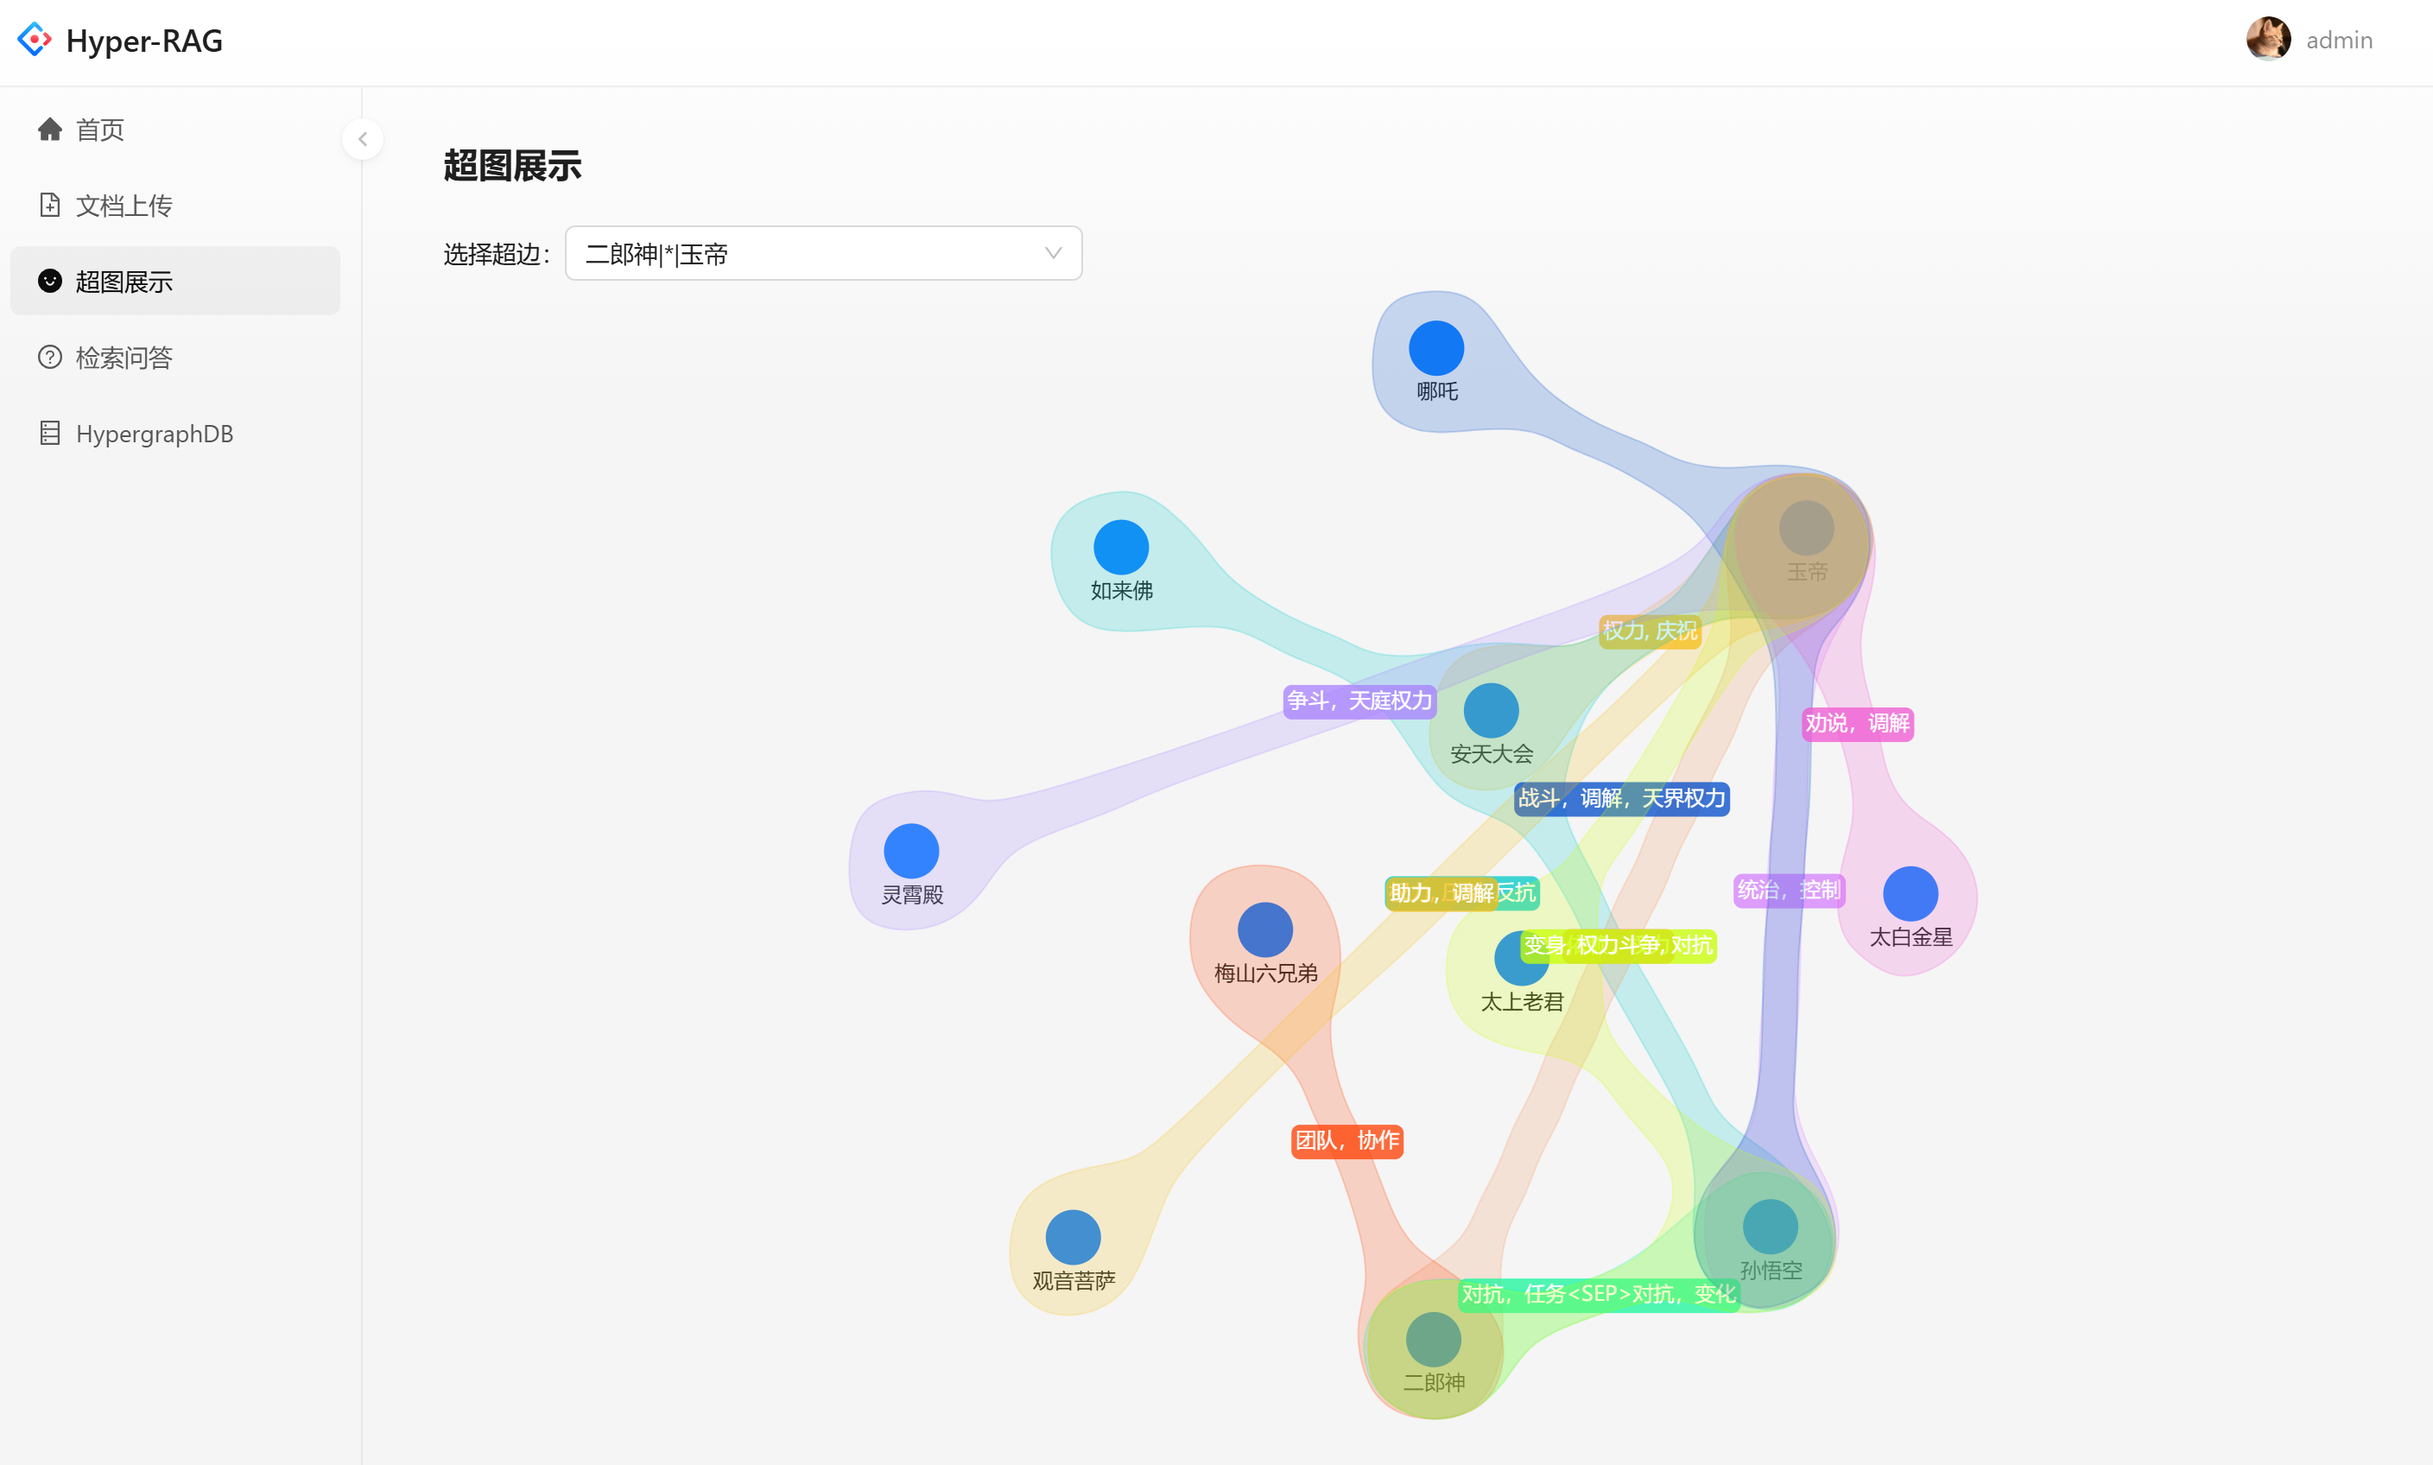
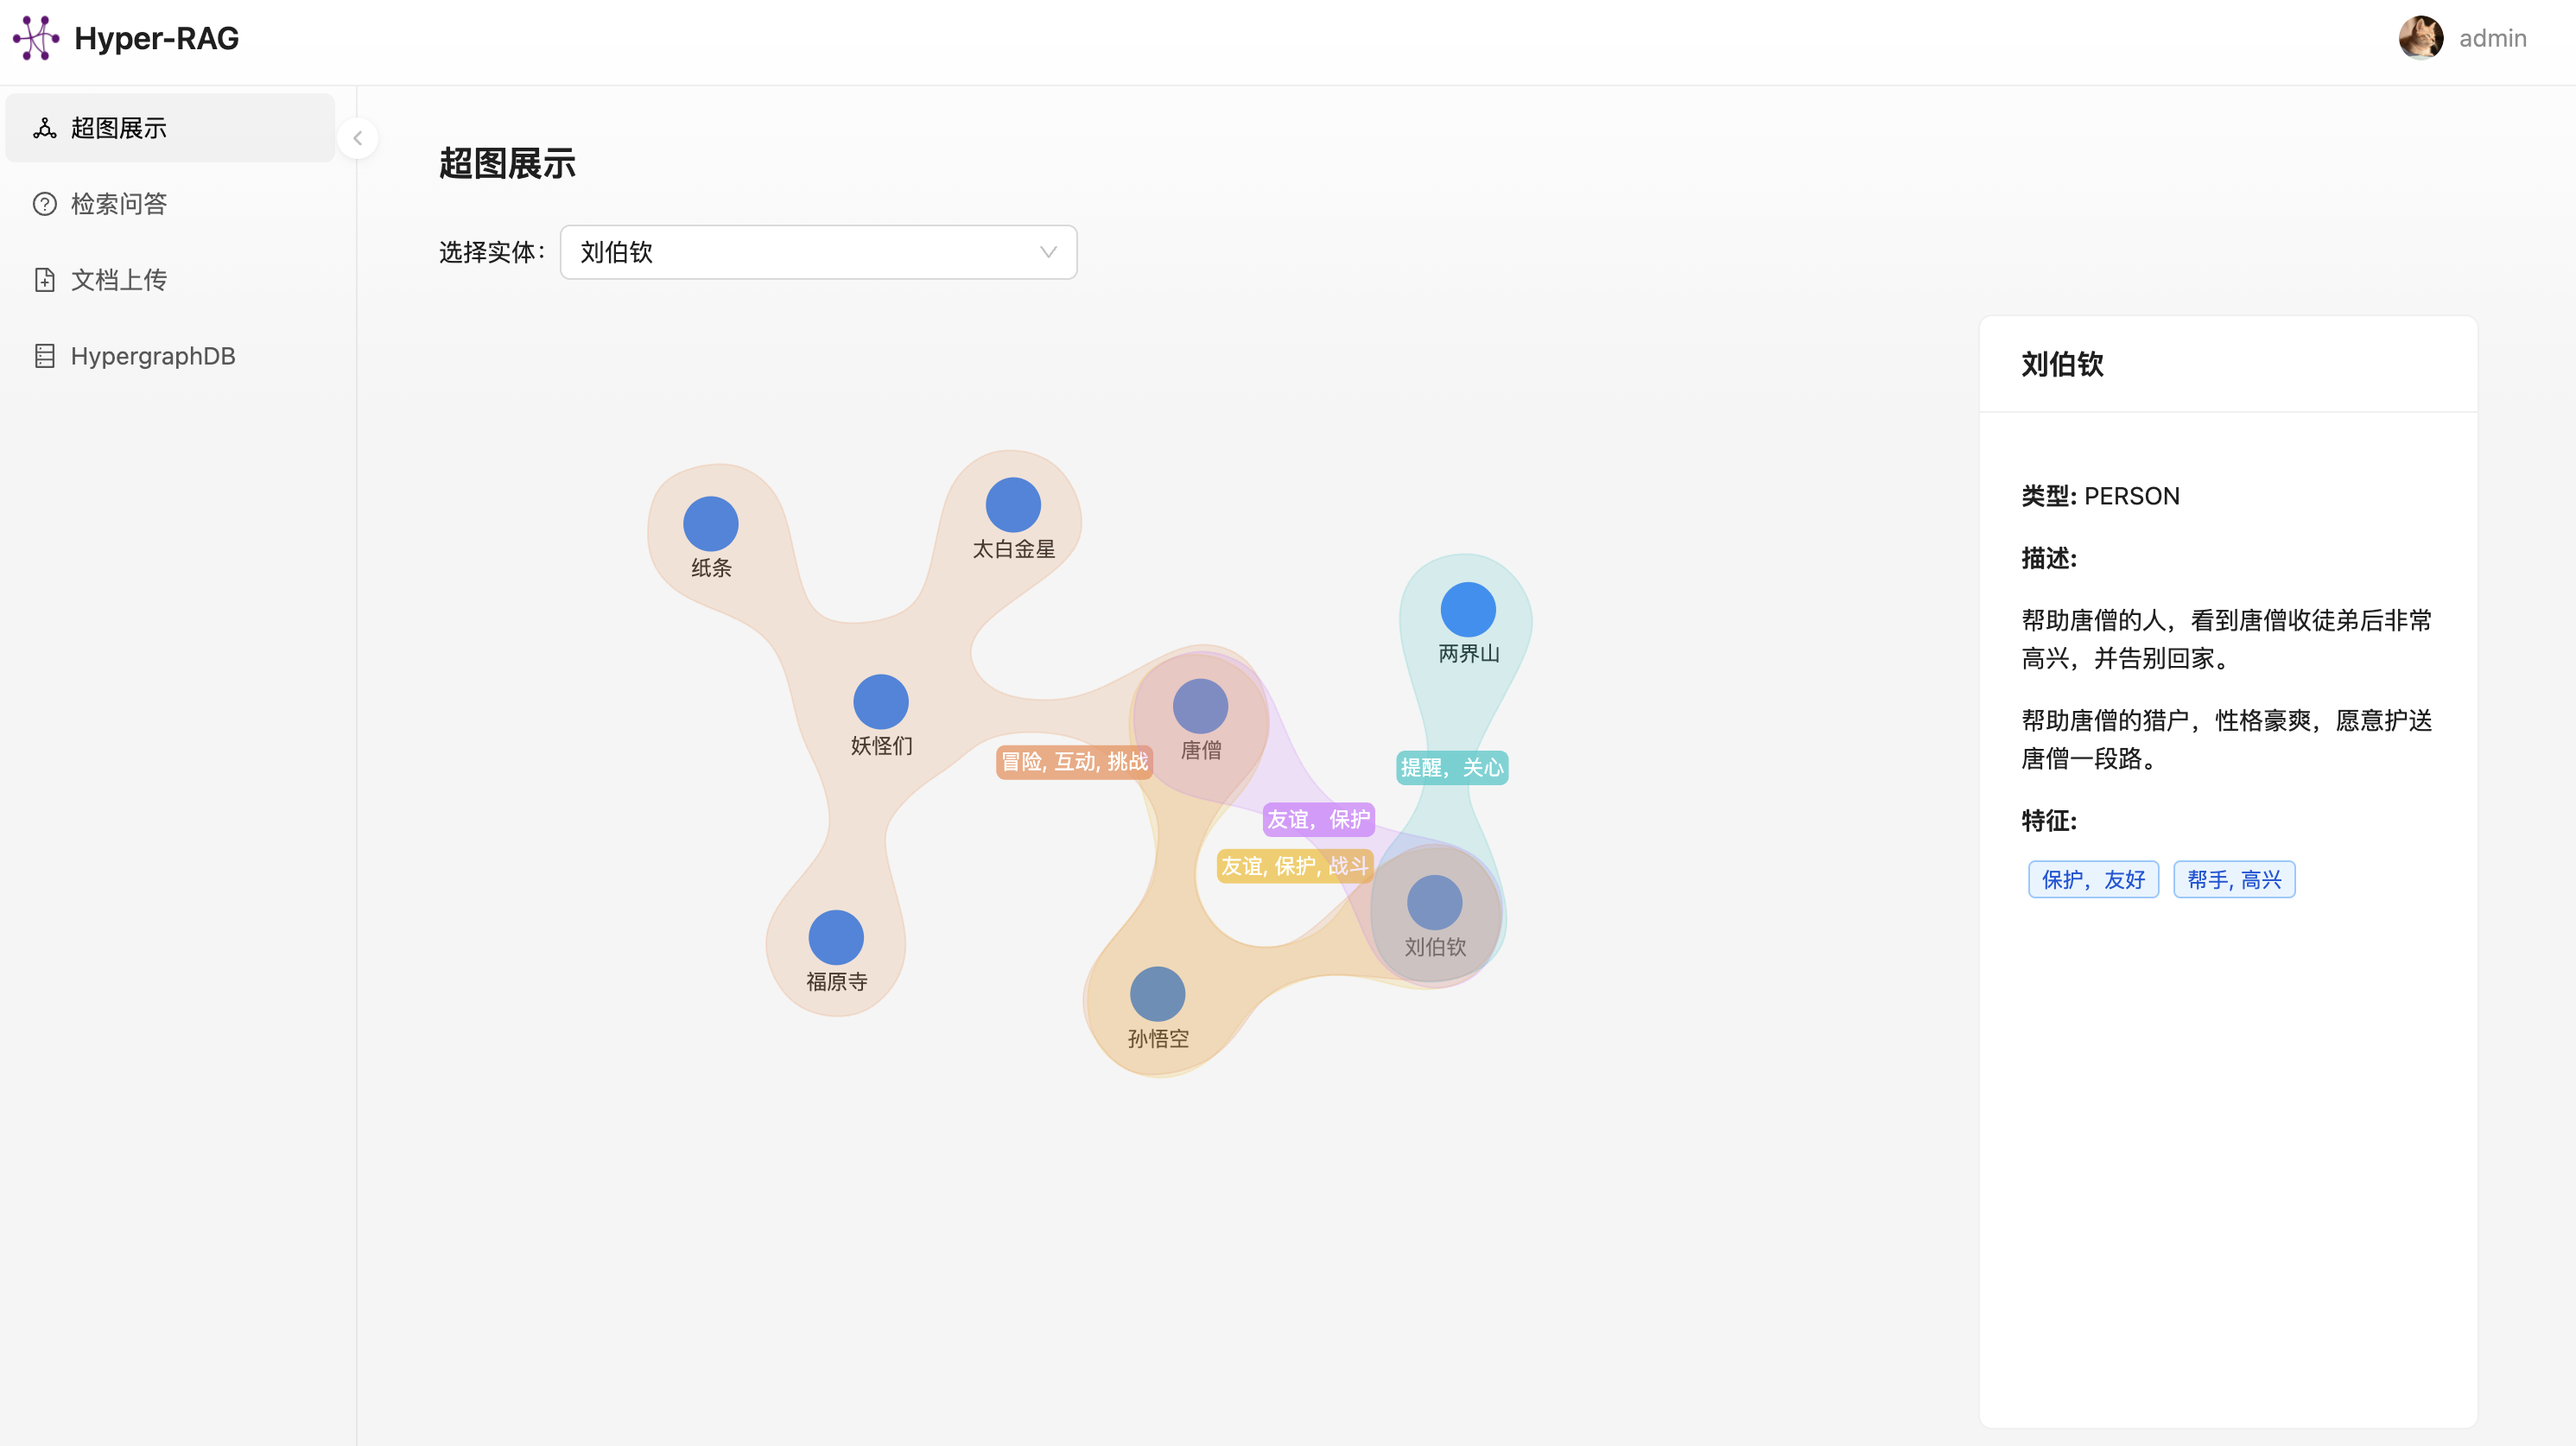
fix[ui]: change default value

diff --git a/web-ui/frontend/src/pages/Home/index.jsx b/web-ui/frontend/src/pages/Home/index.jsx
@@ -128,11 +128,11 @@ const placeholderPromptsItems = [
     children: [
       {
         key: '1-1',
-        description: `What's new in X?`
+        description: `What's new in RAG?`
       },
       {
         key: '1-2',
-        description: `What's AGI?`
+        description: `What's Hyper-RAG?`
       },
       {
         key: '1-3',
@@ -267,7 +267,7 @@ const Independent = () => {
     <Space direction="vertical" size={16} className={styles.placeholder}>
       <Welcome
         variant="borderless"
-        icon="https://mdn.alipayobjects.com/huamei_iwk9zp/afts/img/A*s5sNRo5LjfQAAAAAAAAAAAAADgCCAQ/fmt.webp"
+        icon="https://avatars.githubusercontent.com/u/45651553?s=48&v=4"
         title="Hello, I'm Hyper-RAG"
         description="Base on Knowledge Hypergraph, AGI product interface solution, create a better intelligent vision~"
         extra={
@@ -335,7 +335,7 @@ const Independent = () => {
   const logoNode = (
     <div className={styles.logo}>
       <img
-        src="https://mdn.alipayobjects.com/huamei_iwk9zp/afts/img/A*eco6RrQhxbMAAAAAAAAAAAAADgCCAQ/original"
+        src="/public/logo.png"
         draggable={false}
         alt="logo"
       />

diff --git a/web-ui/frontend/src/pages/Hyper/Graph/index.jsx b/web-ui/frontend/src/pages/Hyper/Graph/index.jsx
@@ -36,11 +36,11 @@ export default () => {
         setKeys(data);
       }
       )
-    fetch(SERVER_URL + '/db/vertices_neighbor/' + '金箍棒')
+    fetch(SERVER_URL + '/db/vertices_neighbor/' + '刘伯钦')
       .then((res) => res.json())
       .then((data) => {
         setData(data);
-        const item = data.vertices['金箍棒'];
+        const item = data.vertices['刘伯钦'];
         setItem({
           entity_name: item.entity_name,
           entity_type: item.entity_type,
@@ -170,7 +170,7 @@ export default () => {
           preventOverlap: true,
           // linkDistance: 700,
           nodeClusterBy: 'entity_type',
-          gravity: 30
+          gravity: 20
         },
         plugins,
       }
@@ -181,7 +181,7 @@ export default () => {
   if (!data) return <p>Loading...</p>;
 
   return <>
-    选择实体：<Select onChange={setKey} style={{ width: 300 }} defaultValue={'金箍棒'} showSearch>
+    选择实体：<Select onChange={setKey} style={{ width: 300 }} defaultValue={'刘伯钦'} showSearch>
       {keys.map((key) => {
         return <Select.Option key={key} value={key} >{key}</Select.Option>
       })}
